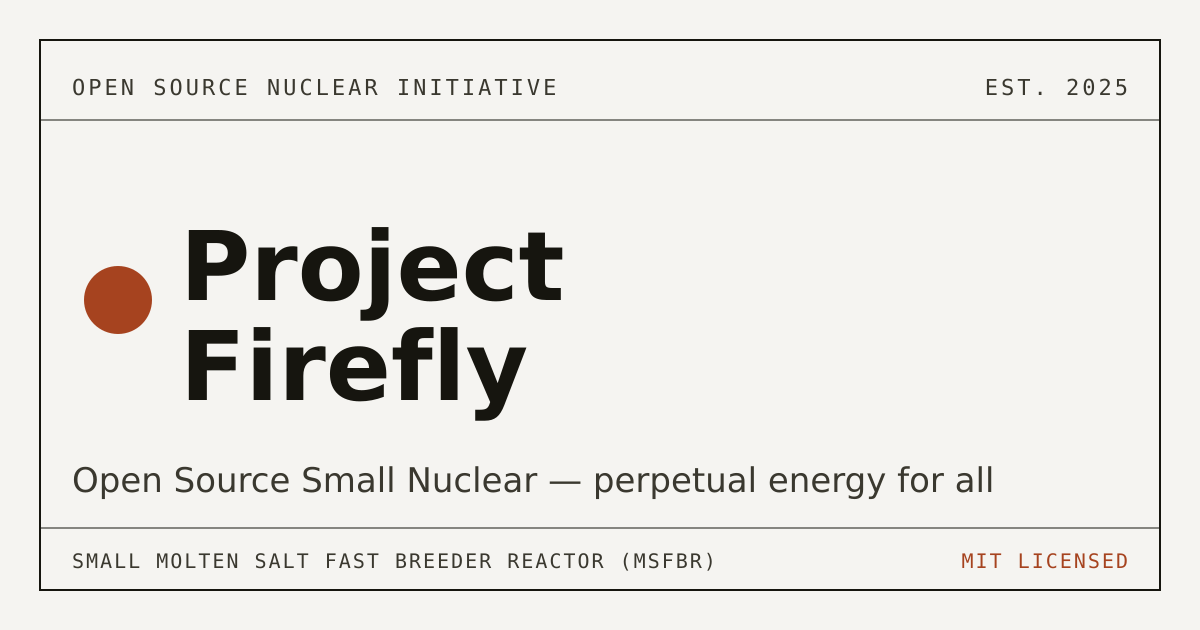
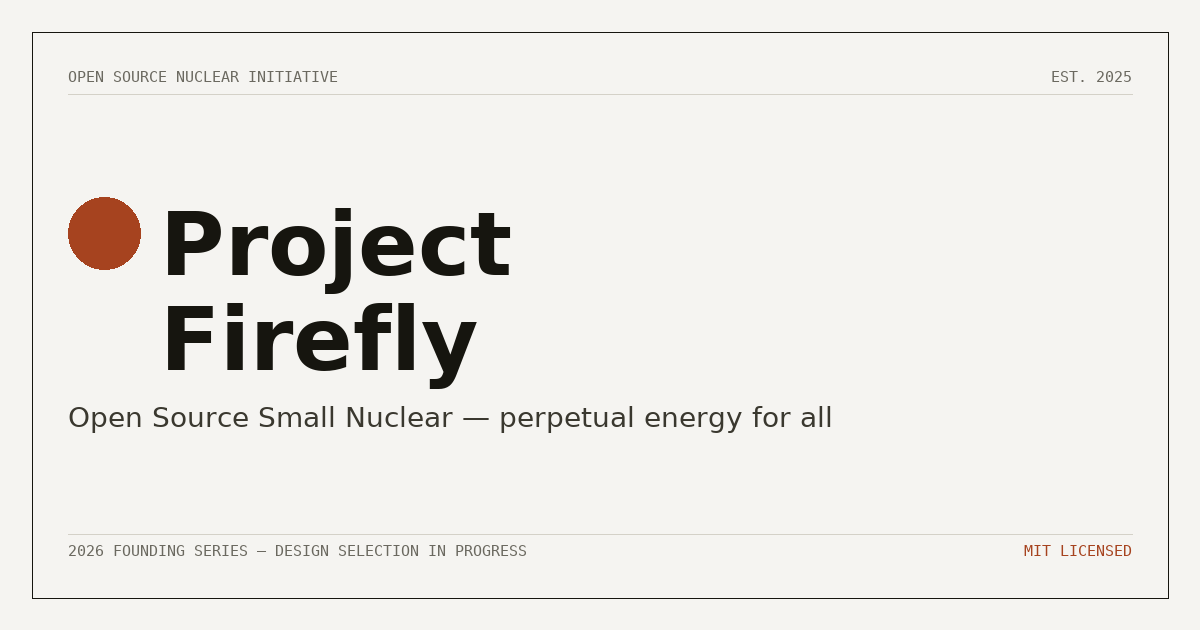
Update canonical domain to fireflyenergy.org across SEO metadata, sitemap, and robots.txt
Replit-Task-Id: 34c855c9-8128-4310-9d2a-118ef4a16aae
Replit-Merge-Attempt: MergeTask:34c855c9-8128-4310-9d2a-118ef4a16aae:1:9cb097bd

diff --git a/circle/index.html b/circle/index.html
@@ -6,30 +6,59 @@
     <title>Firefly Reading Circle — Project Firefly</title>
 
     <!-- SEO -->
-    <meta name="description" content="The Firefly Reading Circle is a monthly technical reading circle on advanced nuclear systems — reactor design, systems engineering, and deep-tech innovation. Join the ongoing monthly circle in Bengaluru.">
-    <meta name="keywords" content="nuclear reading circle, reactor design study group, OpenMC, molten salt reactor, fast breeder reactor, advanced nuclear systems, Project Firefly">
+    <meta name="description" content="The Firefly Reading Circle is a monthly technical reading circle on advanced nuclear systems in Bengaluru. First session held 20 June 2026. Now in the 2026 Founding Series — next session open for registration on Luma.">
+    <meta name="keywords" content="nuclear reading circle, advanced nuclear systems, reactor design study group, OpenMC, 2026 founding series, Bengaluru, Project Firefly, Firefly Reading Circle">
     <meta name="author" content="Project Firefly">
     <meta name="robots" content="index, follow">
     <meta name="theme-color" content="#f5f4f1">
-    <link rel="canonical" href="/circle">
+    <link rel="canonical" href="https://fireflyenergy.org/circle">
 
     <!-- Open Graph / Facebook -->
     <meta property="og:type" content="website">
     <meta property="og:site_name" content="Project Firefly">
     <meta property="og:title" content="Firefly Reading Circle — Project Firefly">
-    <meta property="og:description" content="A monthly technical reading circle on advanced nuclear systems — reactor design, systems engineering, and deep-tech innovation. Join the ongoing monthly circle in Bengaluru.">
-    <meta property="og:url" content="/circle">
-    <meta property="og:image" content="/og-image.png">
+    <meta property="og:description" content="A monthly technical reading circle on advanced nuclear systems in Bengaluru. First session held 20 June 2026. Now in the 2026 Founding Series — next session open for registration.">
+    <meta property="og:url" content="https://fireflyenergy.org/circle">
+    <meta property="og:image" content="https://fireflyenergy.org/circle/og-image-circle.png">
     <meta property="og:image:width" content="1200">
     <meta property="og:image:height" content="630">
-    <meta property="og:image:alt" content="Project Firefly — Open Source Small Nuclear, perpetual energy for all.">
+    <meta property="og:image:alt" content="Firefly Reading Circle — monthly technical reading circle on advanced nuclear systems, Bengaluru, 2026 Founding Series.">
 
     <!-- Twitter -->
     <meta name="twitter:card" content="summary_large_image">
     <meta name="twitter:title" content="Firefly Reading Circle — Project Firefly">
-    <meta name="twitter:description" content="A monthly technical reading circle on advanced nuclear systems — reactor design, systems engineering, and deep-tech innovation. Join the ongoing monthly circle in Bengaluru.">
-    <meta name="twitter:image" content="/og-image.png">
-    <meta name="twitter:image:alt" content="Project Firefly — Open Source Small Nuclear, perpetual energy for all.">
+    <meta name="twitter:description" content="A monthly technical reading circle on advanced nuclear systems in Bengaluru. First session held 20 June 2026. Now in the 2026 Founding Series — next session open for registration.">
+    <meta name="twitter:image" content="https://fireflyenergy.org/circle/og-image-circle.png">
+    <meta name="twitter:image:alt" content="Firefly Reading Circle — monthly technical reading circle on advanced nuclear systems, Bengaluru, 2026 Founding Series.">
+
+    <!-- Structured data -->
+    <script type="application/ld+json">
+    {
+      "@context": "https://schema.org",
+      "@type": "EventSeries",
+      "name": "Firefly Reading Circle — 2026 Founding Series",
+      "description": "A monthly technical reading circle on advanced nuclear systems in Bengaluru. The 2026 Founding Series runs across six sessions building from fundamentals to a community-selected reactor architecture. First session held 20 June 2026; next session open for registration.",
+      "url": "https://fireflyenergy.org/circle",
+      "image": "https://fireflyenergy.org/circle/og-image-circle.png",
+      "organizer": {
+        "@type": "Organization",
+        "name": "Project Firefly",
+        "url": "https://fireflyenergy.org/"
+      },
+      "location": {
+        "@type": "Place",
+        "name": "Bengaluru, India"
+      },
+      "startDate": "2026-06-20",
+      "eventStatus": "https://schema.org/EventScheduled",
+      "eventAttendanceMode": "https://schema.org/OfflineEventAttendanceMode",
+      "isAccessibleForFree": true,
+      "audience": {
+        "@type": "Audience",
+        "audienceType": "Engineers, Researchers, Students, Builders"
+      }
+    }
+    </script>
 
     <link rel="preconnect" href="https://fonts.googleapis.com">
     <link rel="preconnect" href="https://fonts.gstatic.com" crossorigin>

diff --git a/index.html b/index.html
@@ -6,30 +6,30 @@
     <title>Project Firefly — Open Source Small Nuclear</title>
 
     <!-- SEO -->
-    <meta name="description" content="Project Firefly is an open-source initiative developing a community-selected advanced small reactor architecture — collaborative, MIT-licensed nuclear engineering for perpetual energy for all.">
-    <meta name="keywords" content="open source nuclear, advanced reactor, molten salt reactor, fast breeder reactor, small modular reactor, clean energy, nuclear engineering, Project Firefly">
+    <meta name="description" content="Project Firefly is an open-source initiative building a community-selected advanced small reactor. The specific design is being chosen through the 2026 Founding Series of the Firefly Reading Circle — collaborative, MIT-licensed nuclear engineering for perpetual energy for all.">
+    <meta name="keywords" content="open source nuclear, advanced reactor, 2026 founding series, community-selected reactor, small modular reactor, clean energy, nuclear engineering, Project Firefly, reading circle, Bengaluru">
     <meta name="author" content="Project Firefly">
     <meta name="robots" content="index, follow">
     <meta name="theme-color" content="#f5f4f1">
-    <link rel="canonical" href="/">
+    <link rel="canonical" href="https://fireflyenergy.org/">
 
     <!-- Open Graph / Facebook -->
     <meta property="og:type" content="website">
     <meta property="og:site_name" content="Project Firefly">
     <meta property="og:title" content="Project Firefly — Open Source Small Nuclear">
-    <meta property="og:description" content="An open-source initiative developing a community-selected advanced small reactor architecture — collaborative, MIT-licensed nuclear engineering for perpetual energy for all.">
-    <meta property="og:url" content="/">
-    <meta property="og:image" content="og-image.png">
+    <meta property="og:description" content="An open-source initiative building a community-selected advanced small reactor. The design is being chosen through the 2026 Founding Series — collaborative, MIT-licensed nuclear engineering for perpetual energy for all.">
+    <meta property="og:url" content="https://fireflyenergy.org/">
+    <meta property="og:image" content="https://fireflyenergy.org/og-image.png">
     <meta property="og:image:width" content="1200">
     <meta property="og:image:height" content="630">
-    <meta property="og:image:alt" content="Project Firefly — Open Source Small Nuclear, perpetual energy for all.">
+    <meta property="og:image:alt" content="Project Firefly — Open Source Small Nuclear. 2026 Founding Series — design selection in progress.">
 
     <!-- Twitter -->
     <meta name="twitter:card" content="summary_large_image">
     <meta name="twitter:title" content="Project Firefly — Open Source Small Nuclear">
-    <meta name="twitter:description" content="An open-source initiative developing a community-selected advanced small reactor architecture — collaborative, MIT-licensed nuclear engineering for perpetual energy for all.">
-    <meta name="twitter:image" content="og-image.png">
-    <meta name="twitter:image:alt" content="Project Firefly — Open Source Small Nuclear, perpetual energy for all.">
+    <meta name="twitter:description" content="An open-source initiative building a community-selected advanced small reactor. The design is being chosen through the 2026 Founding Series — collaborative, MIT-licensed nuclear engineering for perpetual energy for all.">
+    <meta name="twitter:image" content="https://fireflyenergy.org/og-image.png">
+    <meta name="twitter:image:alt" content="Project Firefly — Open Source Small Nuclear. 2026 Founding Series — design selection in progress.">
 
     <!-- Structured data -->
     <script type="application/ld+json">
@@ -37,11 +37,12 @@
       "@context": "https://schema.org",
       "@type": "Organization",
       "name": "Project Firefly",
-      "description": "An open-source initiative developing a community-selected advanced small reactor architecture — collaborative, MIT-licensed nuclear engineering for perpetual energy for all.",
+      "url": "https://fireflyenergy.org/",
+      "description": "An open-source initiative building a community-selected advanced small reactor architecture — collaborative, MIT-licensed nuclear engineering for perpetual energy for all. The specific reactor design is being chosen through the 2026 Founding Series of the Firefly Reading Circle.",
       "foundingDate": "2025",
-      "logo": "favicon.svg",
-      "image": "og-image.png",
-      "knowsAbout": ["Molten Salt Reactor", "Fast Breeder Reactor", "Open Source Hardware", "Nuclear Engineering", "Clean Energy"]
+      "logo": "https://fireflyenergy.org/favicon.svg",
+      "image": "https://fireflyenergy.org/og-image.png",
+      "knowsAbout": ["Advanced Small Reactor", "Open Source Hardware", "Nuclear Engineering", "Clean Energy", "Community Design Selection"]
     }
     </script>
 

diff --git a/generate_og_images.py b/generate_og_images.py
@@ -1,0 +1,181 @@
+#!/usr/bin/env python3
+"""Generate OG images for Project Firefly in the editorial style."""
+
+from PIL import Image, ImageDraw, ImageFont
+import os, sys
+
+# ─── Palette ────────────────────────────────────────────────────────────────
+PAPER   = (245, 244, 241)
+INK     = (22,  21,  15)
+INK_SOFT= (58,  56,  47)
+GRAY    = (107, 105, 96)
+ACCENT  = (166, 67,  31)   # rust red
+
+W, H = 1200, 630
+MARGIN = 32          # outer margin to border rect
+PAD    = 36          # inner padding from border rect
+
+# ─── Font helpers ────────────────────────────────────────────────────────────
+def find_font(candidates, size):
+    """Try each path in turn; fall back to Pillow's default."""
+    for path in candidates:
+        if path and os.path.exists(path):
+            try:
+                return ImageFont.truetype(path, size)
+            except Exception:
+                pass
+    return ImageFont.load_default()
+
+# Common sans-serif bold paths on Linux/NixOS
+SANS_BOLD_PATHS = [
+    "/run/current-system/sw/share/fonts/truetype/liberation/LiberationSans-Bold.ttf",
+    "/run/current-system/sw/share/fonts/truetype/dejavu/DejaVuSans-Bold.ttf",
+    "/usr/share/fonts/truetype/liberation/LiberationSans-Bold.ttf",
+    "/usr/share/fonts/truetype/dejavu/DejaVuSans-Bold.ttf",
+    "/usr/share/fonts/liberation/LiberationSans-Bold.ttf",
+    "/usr/share/fonts/dejavu/DejaVuSans-Bold.ttf",
+]
+SANS_REGULAR_PATHS = [
+    "/run/current-system/sw/share/fonts/truetype/liberation/LiberationSans-Regular.ttf",
+    "/run/current-system/sw/share/fonts/truetype/dejavu/DejaVuSans.ttf",
+    "/usr/share/fonts/truetype/liberation/LiberationSans-Regular.ttf",
+    "/usr/share/fonts/truetype/dejavu/DejaVuSans.ttf",
+    "/usr/share/fonts/liberation/LiberationSans-Regular.ttf",
+    "/usr/share/fonts/dejavu/DejaVuSans.ttf",
+]
+MONO_PATHS = [
+    "/run/current-system/sw/share/fonts/truetype/liberation/LiberationMono-Regular.ttf",
+    "/run/current-system/sw/share/fonts/truetype/dejavu/DejaVuSansMono.ttf",
+    "/usr/share/fonts/truetype/liberation/LiberationMono-Regular.ttf",
+    "/usr/share/fonts/truetype/dejavu/DejaVuSansMono.ttf",
+    "/usr/share/fonts/liberation/LiberationMono-Regular.ttf",
+    "/usr/share/fonts/dejavu/DejaVuSansMono.ttf",
+]
+
+def find_any_font():
+    """Return the first font file found."""
+    import glob
+    for pat in [
+        "/run/current-system/sw/share/fonts/**/*.ttf",
+        "/usr/share/fonts/**/*.ttf",
+        "/home/**/.fonts/**/*.ttf",
+    ]:
+        hits = glob.glob(pat, recursive=True)
+        if hits:
+            return hits[0]
+    return None
+
+# Discover available fonts
+_fallback = find_any_font()
+SANS_BOLD_PATHS.append(_fallback)
+SANS_REGULAR_PATHS.append(_fallback)
+MONO_PATHS.append(_fallback)
+
+
+def draw_card(
+    title_lines,       # list of strings for the big title
+    subtitle,          # tagline below title
+    header_left,       # small mono top-left
+    header_right,      # small mono top-right
+    footer_left,       # small mono bottom-left
+    footer_right,      # small mono bottom-right (accent colour)
+    out_path,
+    title_size=88,     # font size for title; reduce for longer titles
+):
+    img  = Image.new("RGB", (W, H), PAPER)
+    d    = ImageDraw.Draw(img)
+
+    # ── Fonts ──────────────────────────────────────────────────────────────
+    f_header  = find_font(MONO_PATHS,         15)
+    f_title   = find_font(SANS_BOLD_PATHS,    title_size)
+    f_sub     = find_font(SANS_REGULAR_PATHS, 28)
+    f_footer  = find_font(MONO_PATHS,         15)
+
+    line_h = int(title_size * 1.09)   # line height scales with font
+
+    # ── Outer border rect ──────────────────────────────────────────────────
+    bx0, by0 = MARGIN, MARGIN
+    bx1, by1 = W - MARGIN, H - MARGIN
+    d.rectangle([bx0, by0, bx1, by1], outline=INK, width=1)
+
+    # ── Inner content bounds ───────────────────────────────────────────────
+    cx = bx0 + PAD
+    cy = by0 + PAD
+
+    # ── Header row ─────────────────────────────────────────────────────────
+    d.text((cx, cy), header_left,  font=f_header, fill=GRAY)
+    rw = d.textlength(header_right, font=f_header)
+    d.text((bx1 - PAD - rw, cy),  header_right, font=f_header, fill=GRAY)
+
+    # thin rule below header
+    hr_y = cy + 26
+    d.line([(bx0 + PAD, hr_y), (bx1 - PAD, hr_y)], fill=(212, 209, 200), width=1)
+
+    # ── Footer rule & row (fixed at bottom) ────────────────────────────────
+    fr_y = by1 - PAD - 28
+    d.line([(bx0 + PAD, fr_y), (bx1 - PAD, fr_y)], fill=(212, 209, 200), width=1)
+    fy = fr_y + 8
+    d.text((cx, fy),              footer_left,  font=f_footer, fill=GRAY)
+    rfw = d.textlength(footer_right, font=f_footer)
+    d.text((bx1 - PAD - rfw, fy), footer_right, font=f_footer, fill=ACCENT)
+
+    # ── Vertically centre the title block + subtitle between header and footer ──
+    # Available vertical zone: from hr_y+12 to fr_y-12
+    zone_top = hr_y + 12
+    zone_bot = fr_y - 12
+    zone_h   = zone_bot - zone_top
+
+    total_title_h = len(title_lines) * line_h
+    sub_gap       = 18
+    sub_h         = 34   # approx height of subtitle line
+    block_h       = total_title_h + sub_gap + sub_h
+
+    block_top = zone_top + (zone_h - block_h) // 2
+
+    # ── Red dot ────────────────────────────────────────────────────────────
+    dot_r  = 36
+    dot_cx = cx + dot_r
+    dot_cy = block_top + dot_r + 4   # aligned with first title line top
+
+    d.ellipse(
+        [dot_cx - dot_r, dot_cy - dot_r, dot_cx + dot_r, dot_cy + dot_r],
+        fill=ACCENT,
+    )
+
+    # ── Title ──────────────────────────────────────────────────────────────
+    title_x = dot_cx + dot_r + 20
+    for i, line in enumerate(title_lines):
+        d.text((title_x, block_top + i * line_h), line, font=f_title, fill=INK)
+
+    # ── Subtitle ───────────────────────────────────────────────────────────
+    sub_y = block_top + total_title_h + sub_gap
+    d.text((cx, sub_y), subtitle, font=f_sub, fill=INK_SOFT)
+
+    img.save(out_path, "PNG")
+    print(f"Saved {out_path}")
+
+
+# ─── Card 1: Homepage ────────────────────────────────────────────────────────
+draw_card(
+    title_lines  = ["Project", "Firefly"],
+    subtitle     = "Open Source Small Nuclear \u2014 perpetual energy for all",
+    header_left  = "OPEN SOURCE NUCLEAR INITIATIVE",
+    header_right = "EST. 2025",
+    footer_left  = "2026 FOUNDING SERIES \u2014 DESIGN SELECTION IN PROGRESS",
+    footer_right = "MIT LICENSED",
+    out_path     = "og-image.png",
+)
+
+# ─── Card 2: Reading Circle ──────────────────────────────────────────────────
+draw_card(
+    title_lines  = ["Firefly", "Reading", "Circle"],
+    subtitle     = "Monthly technical reading circle \u00b7 Bengaluru \u00b7 2026 Founding Series",
+    header_left  = "PROJECT FIREFLY",
+    header_right = "EST. 2025",
+    footer_left  = "MONTHLY / 2 HOURS \u00b7 BENGALURU, INDIA",
+    footer_right = "OPEN REGISTRATION",
+    out_path     = "circle/og-image-circle.png",
+    title_size   = 72,
+)
+
+print("Done.")

diff --git a/replit.md b/replit.md
@@ -1,7 +1,7 @@
 # Project Firefly
 
 ## Overview
-Project Firefly is a static HTML website for an open-source initiative dedicated to developing a Small Molten Salt Fast Breeder Reactor (MSFBR). The site presents information about the project's goals, features, partnerships, and volunteer opportunities.
+Project Firefly is a static HTML website for an open-source initiative building a community-selected advanced small reactor. The specific reactor design is being chosen through the 2026 Founding Series of the Firefly Reading Circle. The site presents the project mission, the Reading Circle (/circle), and volunteer/partnership opportunities.
 
 ## Project Structure
 - `index.html` - Main landing page with all content sections
